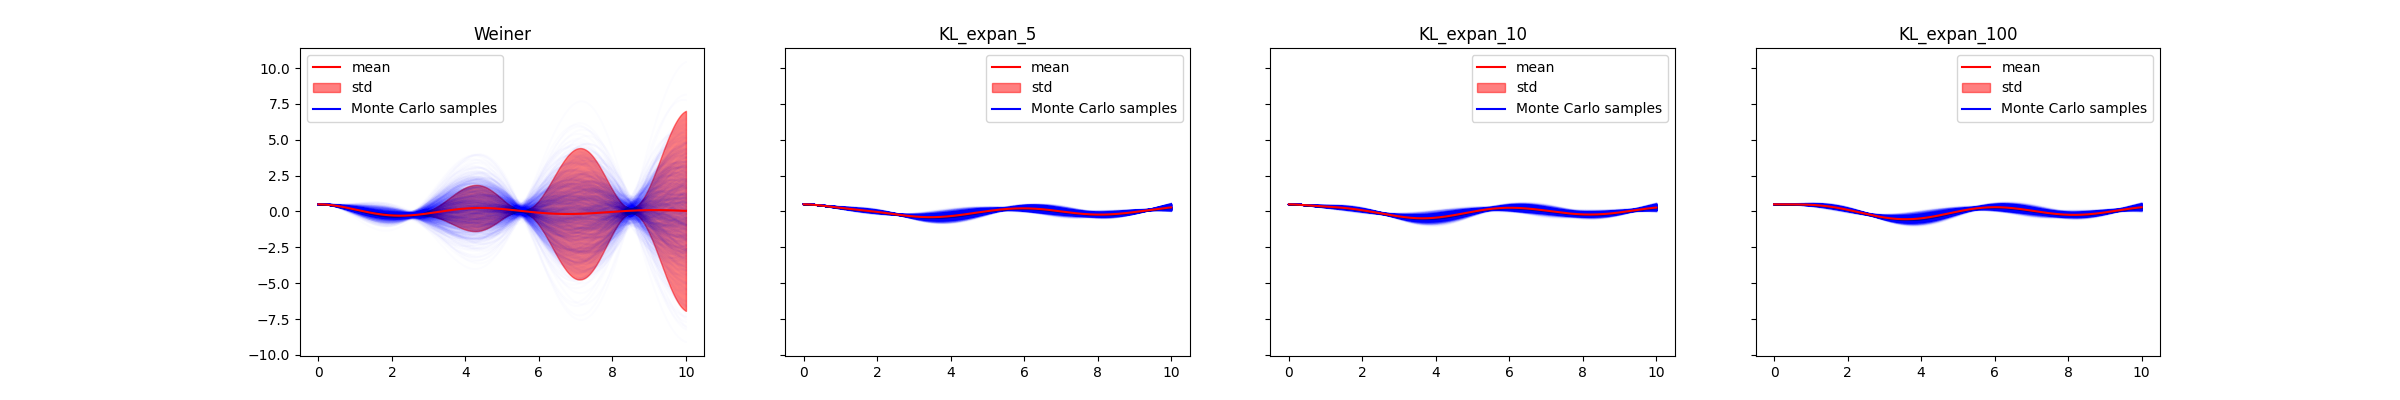
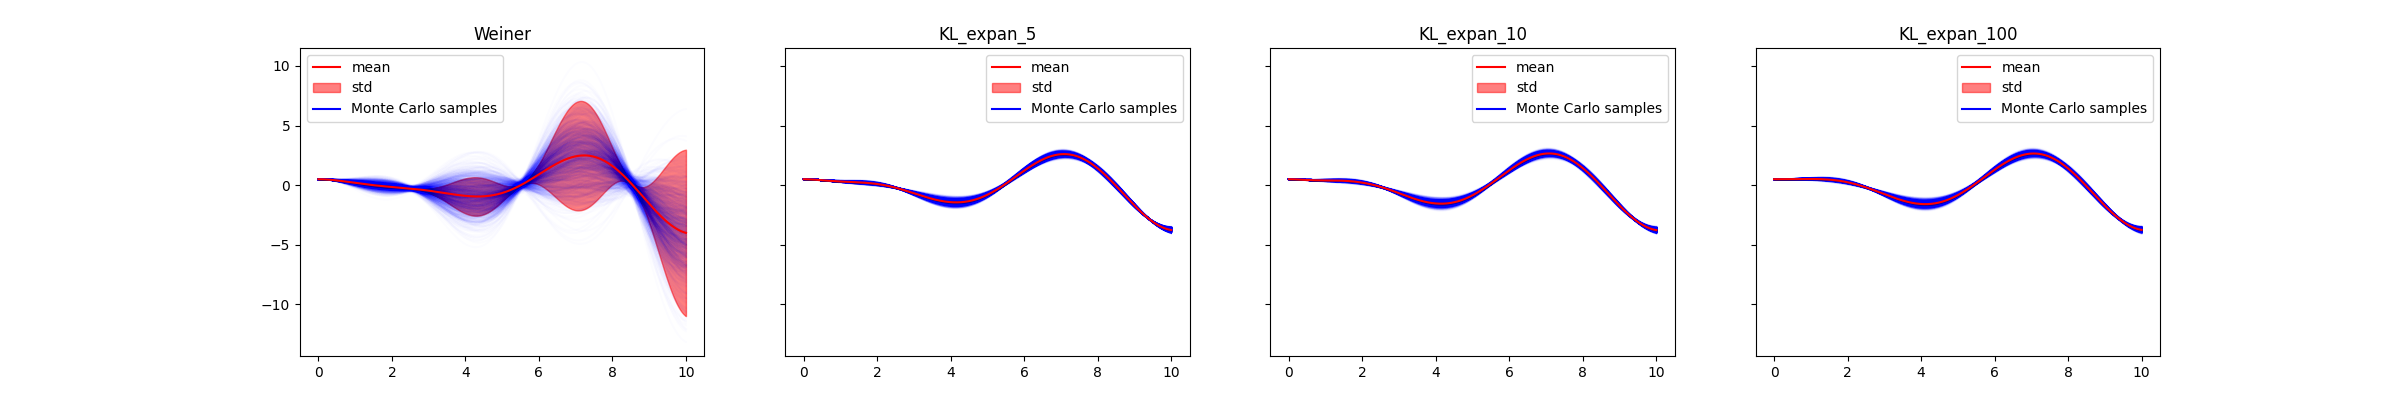
Add shift to Weiner process

diff --git a/Exercise 3/utils/wiener.py b/Exercise 3/utils/wiener.py
@@ -28,7 +28,8 @@ class WienerProcess:
 
         for n in range(n_samples): # For each sample -> generate a different Wiener realization over t_grid
             dW = rng.normal(size=(M), loc=0, scale=np.sqrt(self.T / M))   # increments ~ N(0, dt)
-            W[n] = np.concatenate([[0], np.cumsum(dW)])  # W_0 = 0, then add the current increment + the previous value
+            W[n] = np.concatenate([[0], np.cumsum(dW)]) + (self.mu * self.t_grid) # W_0 = 0, then add the current increment + the previous value
+            # mean is added as a shift
 
         return W
 
@@ -52,6 +53,8 @@ class WienerProcess:
             for t, ti in enumerate(self.t_grid): # At each time step
                 functions = eigenfunctions(ti) # Functions evaluated at t
                 kl[n, t] = np.sum(np.multiply(functions, part)) # Follow the approximation formula
+            kl[n] = kl[n] + (self.mu * self.t_grid) # Shift to take into account the mean
+            # If mean is 0 then there is no shift
 
         return kl # Realizations for the t_grid for each sample
 
